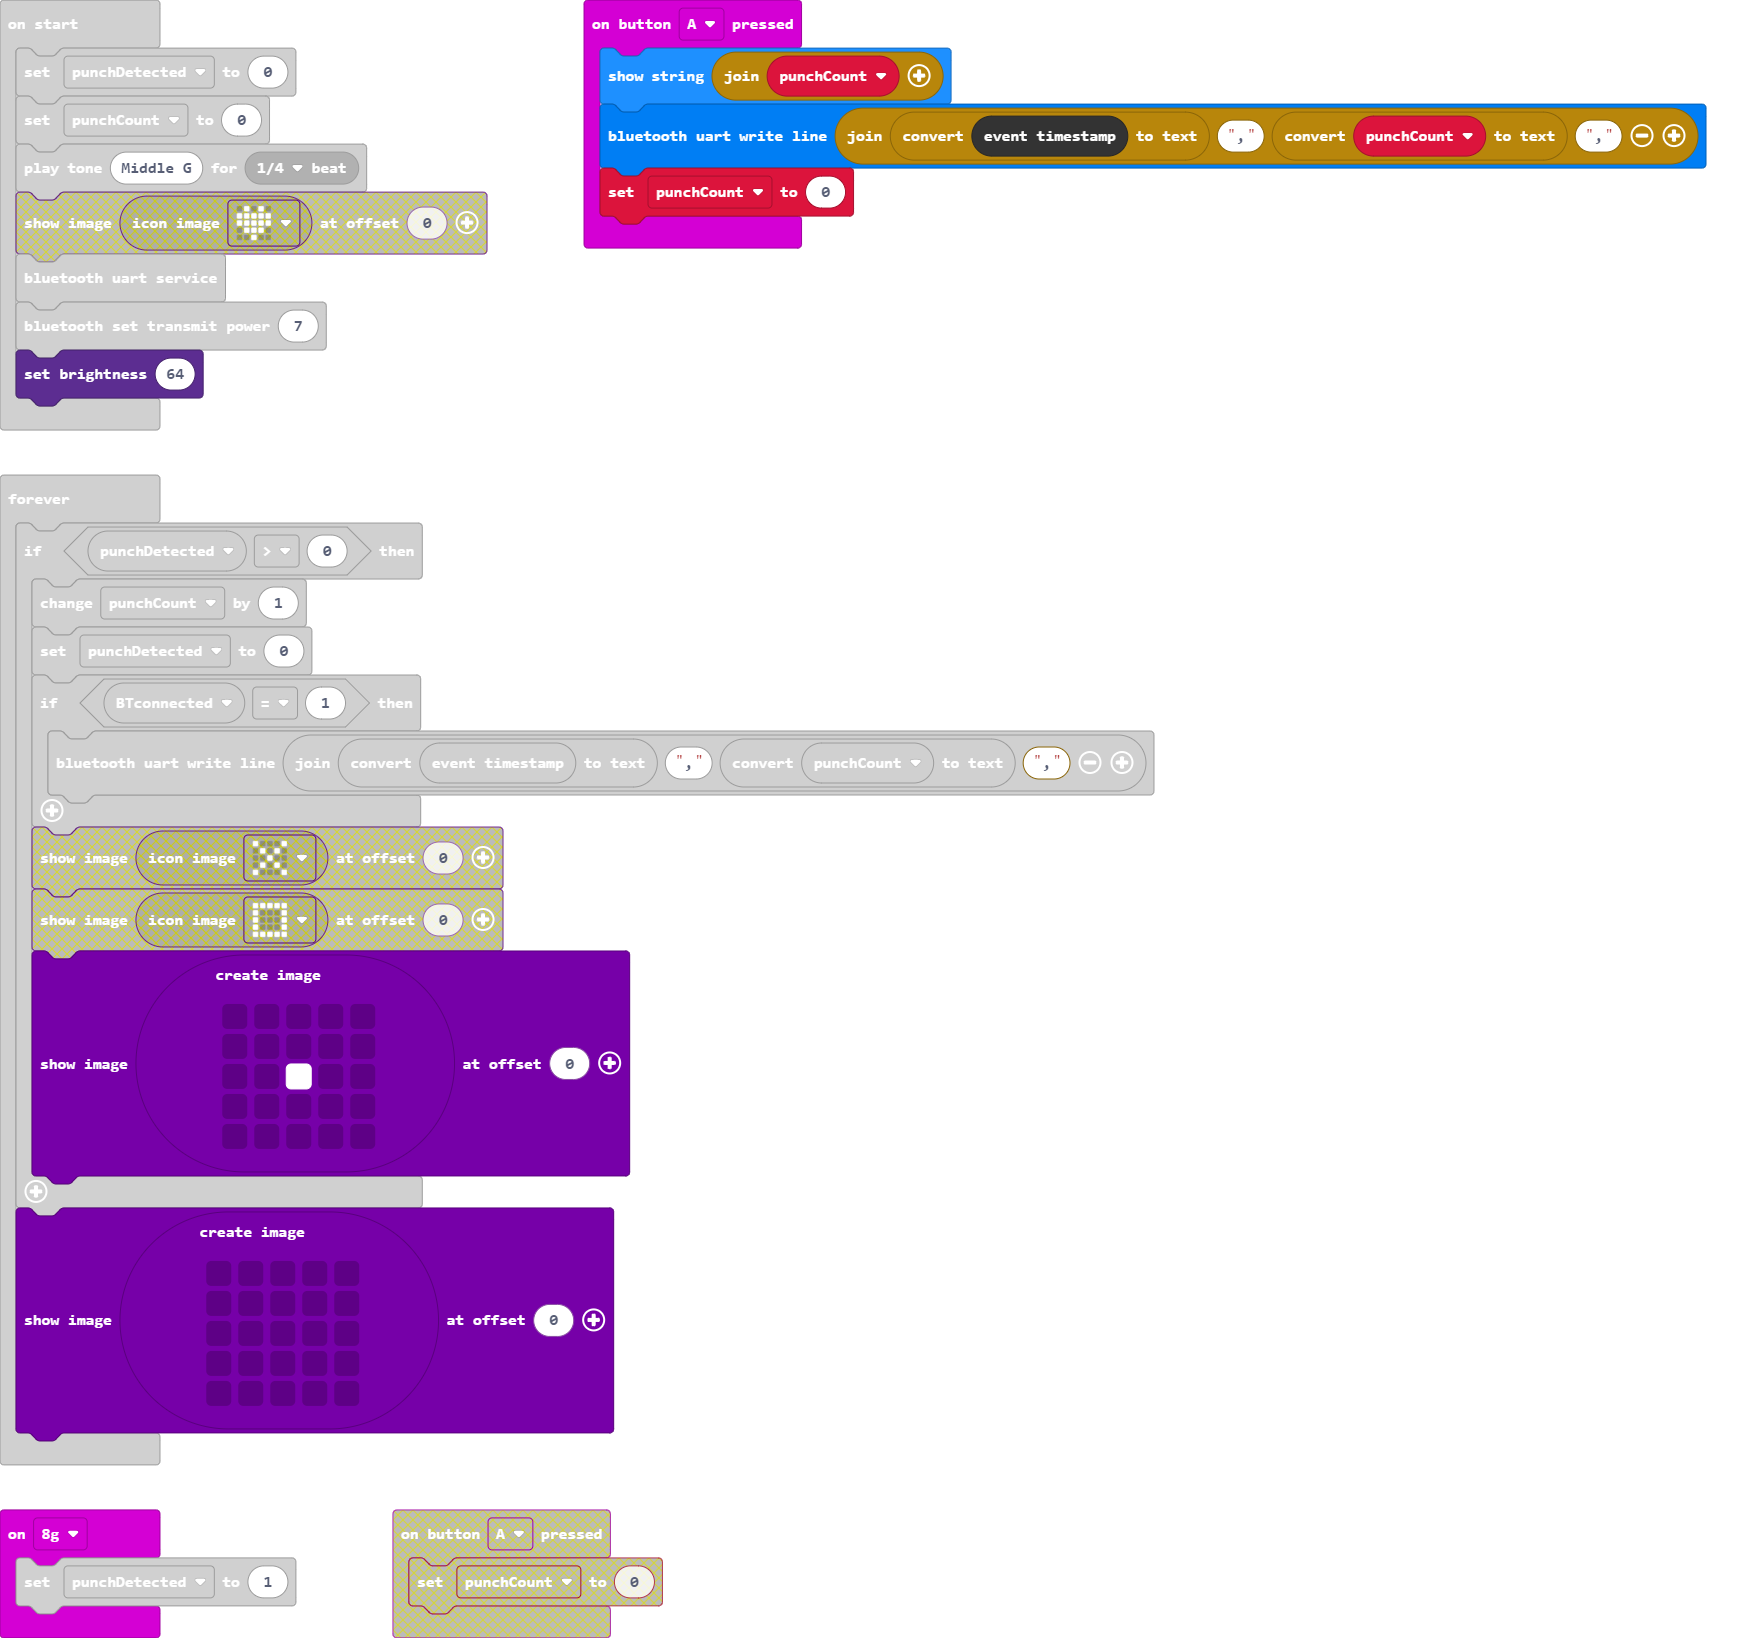
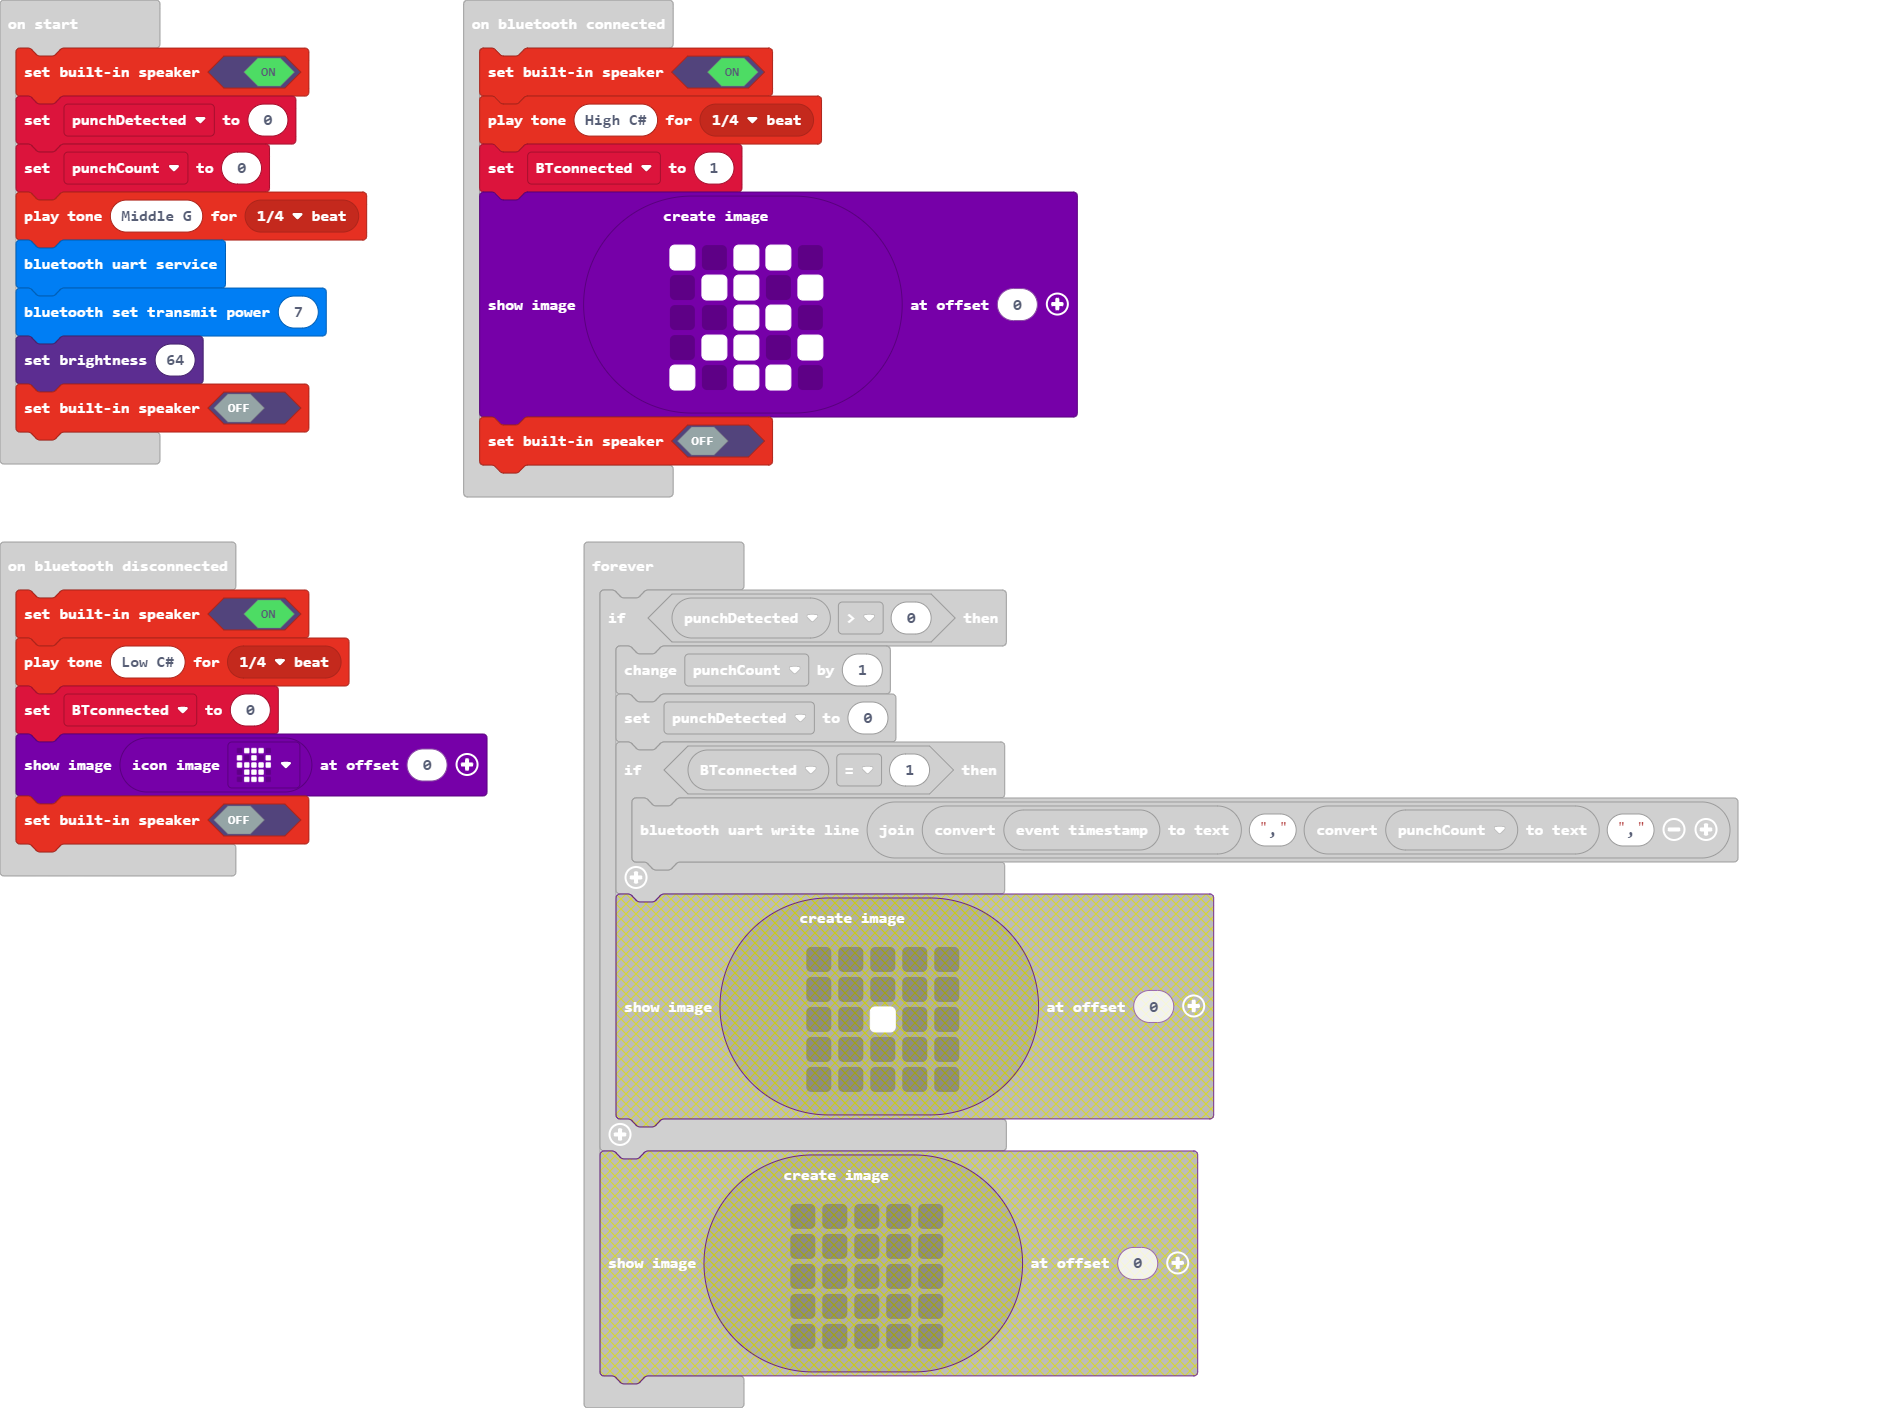
Remove punch displays, keep speaker disabled when not in user

diff --git a/main.ts b/main.ts
@@ -2,6 +2,7 @@ input.onGesture(Gesture.EightG, function () {
     punchDetected = 1
 })
 bluetooth.onBluetoothConnected(function () {
+    music.setBuiltInSpeakerEnabled(true)
     music.playTone(554, music.beat(BeatFraction.Quarter))
     BTconnected = 1
     images.createImage(`
@@ -11,11 +12,14 @@ bluetooth.onBluetoothConnected(function () {
         . # # . #
         # . # # .
         `).showImage(0)
+    music.setBuiltInSpeakerEnabled(false)
 })
 bluetooth.onBluetoothDisconnected(function () {
+    music.setBuiltInSpeakerEnabled(true)
     music.playTone(139, music.beat(BeatFraction.Quarter))
     BTconnected = 0
     images.iconImage(IconNames.Skull).showImage(0)
+    music.setBuiltInSpeakerEnabled(false)
 })
 input.onButtonPressed(Button.A, function () {
     basic.showString("" + punchCount)
@@ -28,12 +32,14 @@ input.onButtonPressed(Button.B, function () {
 let BTconnected = 0
 let punchCount = 0
 let punchDetected = 0
+music.setBuiltInSpeakerEnabled(true)
 punchDetected = 0
 punchCount = 0
 music.playTone(392, music.beat(BeatFraction.Quarter))
 bluetooth.startUartService()
 bluetooth.setTransmitPower(7)
 led.setBrightness(64)
+music.setBuiltInSpeakerEnabled(false)
 basic.forever(function () {
     if (punchDetected > 0) {
         punchCount += 1
@@ -41,19 +47,5 @@ basic.forever(function () {
         if (BTconnected == 1) {
             bluetooth.uartWriteLine("" + convertToText(control.eventTimestamp()) + "," + convertToText(punchCount) + ",")
         }
-        images.createImage(`
-            . . . . .
-            . . . . .
-            . . # . .
-            . . . . .
-            . . . . .
-            `).showImage(0)
     }
-    images.createImage(`
-        . . . . .
-        . . . . .
-        . . . . .
-        . . . . .
-        . . . . .
-        `).showImage(0)
 })
